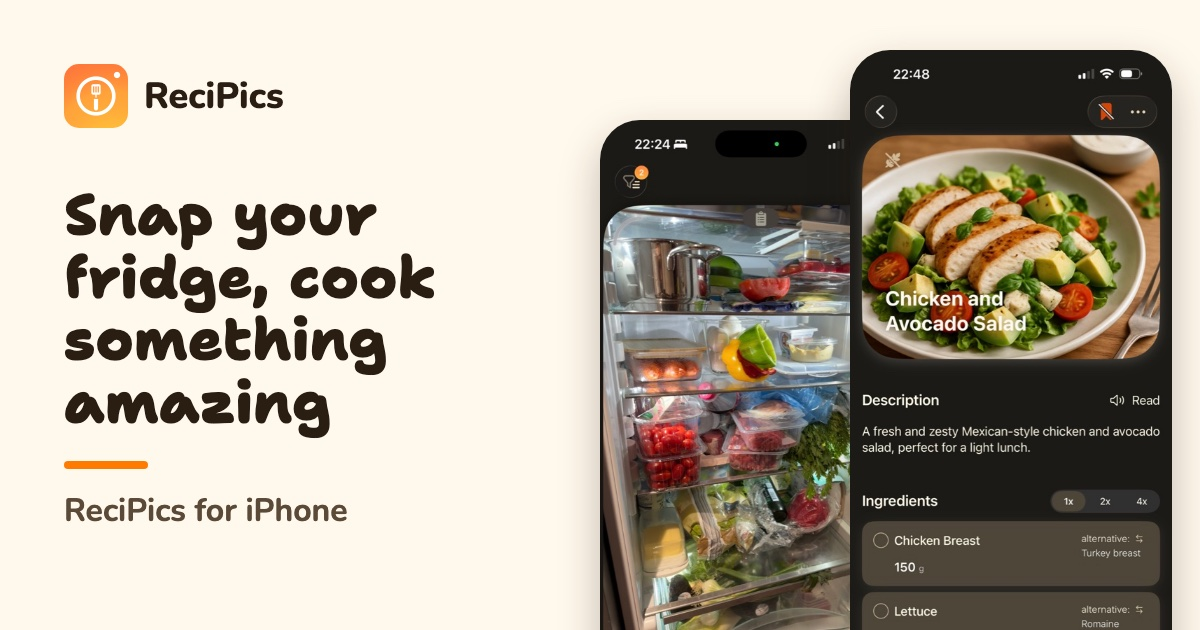
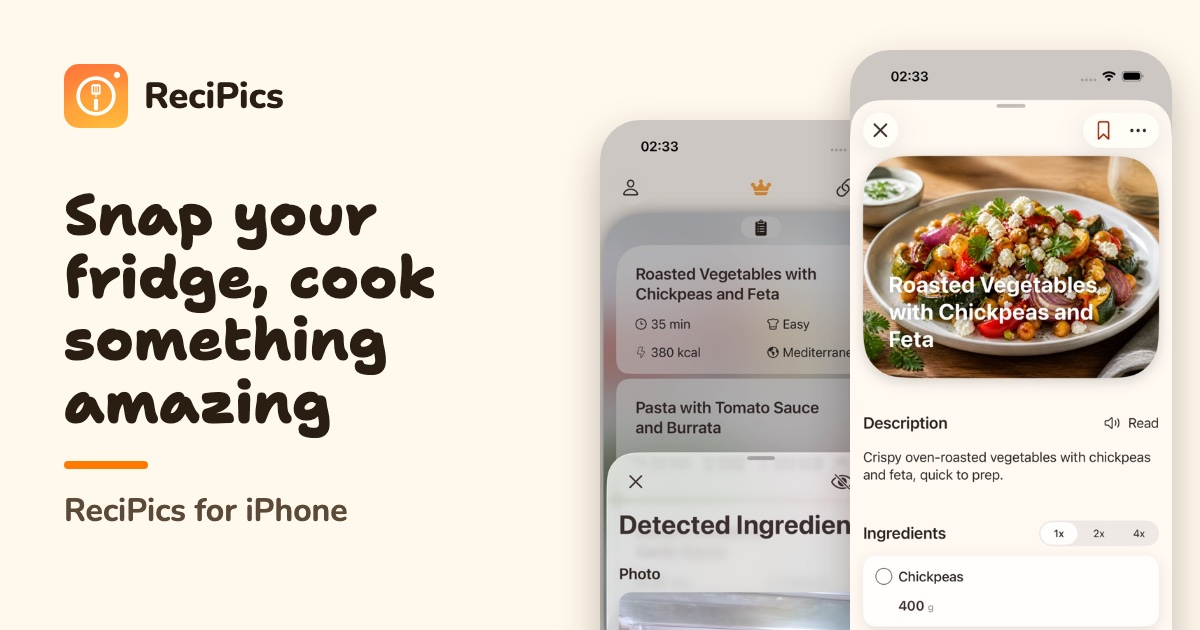
Replace undocumented fridge photo and demo screens with new app captures (EN/DE ingredients, DE planner, hero, og cards); show all 3 steps on mobile (row 1030) (#61)
Claude-Session: https://claude.ai/code/session_014MN2vDgghcvEeuRLMo1AfY

diff --git a/essensplaner-app.html b/essensplaner-app.html
@@ -63,7 +63,8 @@
   .card ol{margin:10px 0 10px 22px;color:#5b4a38;font-weight:600;}
   .card ol li{margin:8px 0;}
   .cta{display:inline-flex;align-items:center;gap:10px;margin-top:18px;background:linear-gradient(135deg,#FF9A2E,#FF7A00);color:#2A1E12 !important;padding:16px 30px;border-radius:16px;font-weight:800;font-size:18px;text-decoration:none;box-shadow:0 16px 32px -12px rgba(214,103,0,.8);}
-  @media (max-width:640px){.shots{grid-template-columns:1fr 1fr;}.shots figure:last-child{display:none;}.nav-links a:not(.nav-cta){display:none;}.nav-links .nav-cta{display:none;}.footer{justify-content:center;text-align:center;}}
+  @media (max-width:640px){.shots{grid-template-columns:repeat(3,1fr);gap:8px;}.shots figcaption{font-size:12px;}.nav-links a:not(.nav-cta){display:none;}.nav-links .nav-cta{display:none;}.footer{justify-content:center;text-align:center;}}
+.shots{counter-reset:s;}.shots figcaption::before{counter-increment:s;content:counter(s) ". ";}
 </style>
   <!-- jsonld-884 -->
   <script type="application/ld+json">{"@context": "https://schema.org", "@graph": [{"@type": "MobileApplication", "name": "ReciPics", "operatingSystem": "iOS", "applicationCategory": "LifestyleApplication", "inLanguage": "de", "description": "Gespeicherte Rezepte hast du genug, und trotzdem stellt sich jeden Abend die Frage, was es heute gibt. In ReciPics legst du Rezepte aus deinem Kochbuch auf einen Wochenplan, Mahlzeit für Mahlzeit, und setzt die Zutaten auf deine Einkaufsliste, wenn du einkaufen gehst.", "url": "https://recipics.app/essensplaner-app.html", "installUrl": "https://apps.apple.com/app/apple-store/id6740248018?pt=10114007&ct=web-mealplan-de&mt=8", "image": "https://recipics.app/resources/appIcon.png"}, {"@type": "BreadcrumbList", "itemListElement": [{"@type": "ListItem", "position": 1, "name": "ReciPics", "item": "https://recipics.app/"}, {"@type": "ListItem", "position": 2, "name": "Essensplaner mit deinen Rezepten", "item": "https://recipics.app/essensplaner-app.html"}]}]}</script>
@@ -85,11 +86,11 @@
     <a class="cta" href="https://apps.apple.com/app/apple-store/id6740248018?pt=10114007&amp;ct=web-mealplan-de&amp;mt=8">Im App Store ansehen</a>
     <p class="eff"><a href="meal-planner-app.html" hreflang="en">English</a></p>
     <div class="shots">
-      <figure><img src="resources/import-de-recipe.jpg" width="560" height="1218" alt="ReciPics: gespeichertes Rezept mit Zutaten, Portionswahl und Menü-Taste"><figcaption>1. Gespeichertes Rezept öffnen</figcaption></figure>
-      <figure><img src="resources/meal-planner.jpg" width="460" height="1000" alt="ReciPics-Essensplaner: eine Woche mit Zeilen für Frühstück, Mittag- und Abendessen und geplanten Rezepten" loading="lazy"><figcaption>2. Auf einen Tag legen</figcaption></figure>
-      <figure><img src="resources/grocery-list.jpg" width="460" height="1000" alt="ReciPics-Einkaufsliste mit Zutaten, Mengen und Abhak-Kreisen" loading="lazy"><figcaption>3. Mit der Liste einkaufen</figcaption></figure>
+      <figure><img src="resources/planner-de-1.jpg" width="460" height="1000" alt="ReciPics: gespeichertes Rezept Ofengemüse mit Kichererbsen und Feta mit Zutaten und Portionswahl"><figcaption>Gespeichertes Rezept öffnen</figcaption></figure>
+      <figure><img src="resources/planner-de-2.jpg" width="460" height="1000" alt="ReciPics-Essensplaner: eine Woche, das Rezept liegt auf Montag beim Abendessen" loading="lazy"><figcaption>Auf einen Tag legen</figcaption></figure>
+      <figure><img src="resources/planner-de-3.jpg" width="460" height="1000" alt="ReciPics-Einkaufsliste mit dem Abschnitt Essensplan, Zutaten, Mengen und Abhak-Kreisen" loading="lazy"><figcaption>Mit der Liste einkaufen</figcaption></figure>
     </div>
-    <p class="note">Echte Screens aus der App. Das Rezept zeigt die deutsche App-Version (Beispielrezept von unserer eigenen Seite recipics.app); Essensplaner und Einkaufsliste stammen aus der englischen App-Version, die App gibt es auch auf Deutsch.</p>
+    <p class="note">Screens aus der deutschen ReciPics-App mit Beispielinhalten (Testversion). Rezept, Rezeptfoto (KI-generiert), Wochenplan und Einkaufsliste dienen nur als Beispiel.</p>
     <div class="card">
       <h2>Der Wochenplan fürs Essen auf einen Blick</h2>
       <p>Im Tab „Essensplaner“ siehst du eine Woche als Raster: die Tage nebeneinander, die Mahlzeiten untereinander. Mit den Pfeilen wechselst du die Woche, und ein Tipp auf ein leeres Feld plant diese Mahlzeit.</p>

diff --git a/rezepte-aus-vorhandenen-zutaten.html b/rezepte-aus-vorhandenen-zutaten.html
@@ -63,7 +63,8 @@
   .card ol{margin:10px 0 10px 22px;color:#5b4a38;font-weight:600;}
   .card ol li{margin:8px 0;}
   .cta{display:inline-flex;align-items:center;gap:10px;margin-top:18px;background:linear-gradient(135deg,#FF9A2E,#FF7A00);color:#2A1E12 !important;padding:16px 30px;border-radius:16px;font-weight:800;font-size:18px;text-decoration:none;box-shadow:0 16px 32px -12px rgba(214,103,0,.8);}
-  @media (max-width:640px){.shots{grid-template-columns:1fr 1fr;}.shots figure:last-child{display:none;}.nav-links a:not(.nav-cta){display:none;}.nav-links .nav-cta{display:none;}.footer{justify-content:center;text-align:center;}}
+  @media (max-width:640px){.shots{grid-template-columns:repeat(3,1fr);gap:8px;}.shots figcaption{font-size:12px;}.nav-links a:not(.nav-cta){display:none;}.nav-links .nav-cta{display:none;}.footer{justify-content:center;text-align:center;}}
+.shots{counter-reset:s;}.shots figcaption::before{counter-increment:s;content:counter(s) ". ";}
 </style>
   <!-- jsonld-884 -->
   <script type="application/ld+json">{"@context": "https://schema.org", "@graph": [{"@type": "MobileApplication", "name": "ReciPics", "operatingSystem": "iOS", "applicationCategory": "LifestyleApplication", "inLanguage": "de", "description": "Der Kühlschrank ist voll, aber eine Idee fürs Abendessen fehlt. Fotografier mit ReciPics die Zutaten, die du da hast, und du bekommst Rezeptvorschläge, in denen mehrere davon vorkommen. Kein Foto zur Hand? Dann sag einfach, was da ist.", "url": "https://recipics.app/rezepte-aus-vorhandenen-zutaten.html", "installUrl": "https://apps.apple.com/app/apple-store/id6740248018?pt=10114007&ct=web-ingredients-de&mt=8", "image": "https://recipics.app/resources/appIcon.png"}, {"@type": "BreadcrumbList", "itemListElement": [{"@type": "ListItem", "position": 1, "name": "ReciPics", "item": "https://recipics.app/"}, {"@type": "ListItem", "position": 2, "name": "Rezepte aus vorhandenen Zutaten", "item": "https://recipics.app/rezepte-aus-vorhandenen-zutaten.html"}]}]}</script>
@@ -85,11 +86,11 @@
     <a class="cta" href="https://apps.apple.com/app/apple-store/id6740248018?pt=10114007&ct=web-ingredients-de&mt=8">Im App Store ansehen</a>
     <p class="eff"><a href="recipes-from-ingredients-you-have.html" hreflang="en">English</a></p>
     <div class="shots">
-      <figure><img src="resources/home-recipes.jpg" width="460" height="1000" alt="ReciPics: Kamera auf einen offenen Kühlschrank gerichtet"><figcaption>1. Kühlschrank fotografieren</figcaption></figure>
-      <figure><img src="resources/recipe-suggestions.jpg" width="460" height="1000" alt="ReciPics: Rezeptvorschläge mit Kochzeit, Schwierigkeit und geschätzten Kalorien" loading="lazy"><figcaption>2. Vorschlag wählen</figcaption></figure>
-      <figure><img src="resources/recipe-details.jpg" width="460" height="1000" alt="ReciPics: Rezept mit Zutaten, Mengen und Portionswahl 1x, 2x, 4x" loading="lazy"><figcaption>3. Loskochen</figcaption></figure>
+      <figure><img src="resources/ingredients-de-1.jpg" width="460" height="1000" alt="ReciPics: erkannte Zutaten neben einem KI-generierten Beispielfoto aus dem Kühlschrank"><figcaption>Kühlschrank fotografieren</figcaption></figure>
+      <figure><img src="resources/ingredients-de-2.jpg" width="460" height="1000" alt="ReciPics: Rezeptvorschläge mit Kochzeit, Schwierigkeit und geschätzten Kalorien" loading="lazy"><figcaption>Vorschlag wählen</figcaption></figure>
+      <figure><img src="resources/ingredients-de-3.jpg" width="460" height="1000" alt="ReciPics: Rezept Ofengemüse mit Kichererbsen und Feta mit Zutaten, Mengen und Portionswahl" loading="lazy"><figcaption>Loskochen</figcaption></figure>
     </div>
-    <p class="note">Echte Screens aus der englischen App-Version; die App gibt es auch auf Deutsch. Kalorien und Nährwerte sind Schätzungen.</p>
+    <p class="note">Screens aus der deutschen App mit Beispielinhalten (Testversion). Kühlschrankfoto und Rezeptfotos sind KI-generierte Beispiele; in der App entstehen die Vorschläge aus deinem eigenen Foto und können abweichen. Kalorien und Nährwerte sind Schätzungen.</p>
     <div class="card">
       <h2>Voller Kühlschrank, keine Idee</h2>
       <p>Eine halbe Paprika, ein paar Eier, eine Tüte Spinat, Reis von gestern. Für jede Zutat einzeln ein Rezept zu suchen, dauert länger als das Kochen selbst. ReciPics fängt bei dem an, was schon vor dir liegt, und schlägt vor, was du daraus machen kannst.</p>

diff --git a/recipes-from-ingredients-you-have.html b/recipes-from-ingredients-you-have.html
@@ -63,7 +63,8 @@
   .card ol{margin:10px 0 10px 22px;color:#5b4a38;font-weight:600;}
   .card ol li{margin:8px 0;}
   .cta{display:inline-flex;align-items:center;gap:10px;margin-top:18px;background:linear-gradient(135deg,#FF9A2E,#FF7A00);color:#2A1E12 !important;padding:16px 30px;border-radius:16px;font-weight:800;font-size:18px;text-decoration:none;box-shadow:0 16px 32px -12px rgba(214,103,0,.8);}
-  @media (max-width:640px){.shots{grid-template-columns:1fr 1fr;}.shots figure:last-child{display:none;}.nav-links a:not(.nav-cta){display:none;}.nav-links .nav-cta{display:none;}.footer{justify-content:center;text-align:center;}}
+  @media (max-width:640px){.shots{grid-template-columns:repeat(3,1fr);gap:8px;}.shots figcaption{font-size:12px;}.nav-links a:not(.nav-cta){display:none;}.nav-links .nav-cta{display:none;}.footer{justify-content:center;text-align:center;}}
+.shots{counter-reset:s;}.shots figcaption::before{counter-increment:s;content:counter(s) ". ";}
 </style>
   <!-- jsonld-884 -->
   <script type="application/ld+json">{"@context": "https://schema.org", "@graph": [{"@type": "MobileApplication", "name": "ReciPics", "operatingSystem": "iOS", "applicationCategory": "LifestyleApplication", "inLanguage": "en", "description": "The fridge is full, but nothing in it looks like dinner. Take a photo of the ingredients you have with ReciPics and get recipe ideas that use several of them. No photo at hand? Say what you have instead.", "url": "https://recipics.app/recipes-from-ingredients-you-have.html", "installUrl": "https://apps.apple.com/app/apple-store/id6740248018?pt=10114007&ct=web-ingredients-en&mt=8", "image": "https://recipics.app/resources/appIcon.png"}, {"@type": "BreadcrumbList", "itemListElement": [{"@type": "ListItem", "position": 1, "name": "ReciPics", "item": "https://recipics.app/"}, {"@type": "ListItem", "position": 2, "name": "Recipes from the ingredients you have", "item": "https://recipics.app/recipes-from-ingredients-you-have.html"}]}]}</script>
@@ -85,11 +86,11 @@
     <a class="cta" href="https://apps.apple.com/app/apple-store/id6740248018?pt=10114007&ct=web-ingredients-en&mt=8">View on the App Store</a>
     <p class="eff"><a href="rezepte-aus-vorhandenen-zutaten.html" hreflang="de">Deutsch</a></p>
     <div class="shots">
-      <figure><img src="resources/home-recipes.jpg" width="460" height="1000" alt="ReciPics: camera pointed at an open fridge"><figcaption>1. Snap your fridge</figcaption></figure>
-      <figure><img src="resources/recipe-suggestions.jpg" width="460" height="1000" alt="ReciPics: recipe suggestions with cooking time, difficulty and estimated calories" loading="lazy"><figcaption>2. Pick a suggestion</figcaption></figure>
-      <figure><img src="resources/recipe-details.jpg" width="460" height="1000" alt="ReciPics: recipe with ingredients, amounts and servings 1x, 2x, 4x" loading="lazy"><figcaption>3. Cook the recipe</figcaption></figure>
+      <figure><img src="resources/ingredients-en-1.jpg" width="460" height="1000" alt="ReciPics: detected ingredients next to an AI-generated example fridge photo"><figcaption>Snap your fridge</figcaption></figure>
+      <figure><img src="resources/ingredients-en-2.jpg" width="460" height="1000" alt="ReciPics: recipe suggestions with cooking time, difficulty and estimated calories" loading="lazy"><figcaption>Pick a suggestion</figcaption></figure>
+      <figure><img src="resources/ingredients-en-3.jpg" width="460" height="1000" alt="ReciPics: recipe Roasted Vegetables with Chickpeas and Feta with ingredients, amounts and servings" loading="lazy"><figcaption>Cook the recipe</figcaption></figure>
     </div>
-    <p class="note">Real screens from the app. Calories and nutrition are estimates.</p>
+    <p class="note">Screens from the app with example content (test version). The fridge photo and recipe photos are AI-generated examples; in the app, suggestions come from your own photo and may differ. Calories and nutrition are estimates.</p>
     <div class="card">
       <h2>A full fridge and no idea</h2>
       <p>Half a pepper, a few eggs, a bag of spinach, some leftover rice. Looking up a recipe for each of them takes longer than the cooking. ReciPics starts from what is already in front of you and suggests what you could make with it.</p>

diff --git a/index.html b/index.html
@@ -106,13 +106,13 @@
       <div data-tilt style="position:relative;z-index:3;transition:transform .25s ease;transform-style:preserve-3d;">
         <div style="position:relative;width:clamp(260px,30vw,300px);aspect-ratio:9/19.5;background:#15110c;border-radius:46px;padding:11px;box-shadow:0 40px 70px -20px rgba(214,103,0,.55),0 0 0 2px rgba(0,0,0,.06);animation:bob 8s ease-in-out infinite;">
           <div style="position:absolute;top:20px;left:50%;transform:translateX(-50%);width:96px;height:28px;background:#000;border-radius:20px;z-index:5;"></div>
-          <img alt="ReciPics recipe home screen" width="460" height="1000" src="resources/home-recipes.jpg" style="width:100%;height:100%;object-fit:cover;border-radius:36px;display:block;">
+          <img alt="ReciPics: detected ingredients next to an AI-generated example fridge photo" width="460" height="1000" src="resources/ingredients-en-1.jpg" style="width:100%;height:100%;object-fit:cover;border-radius:36px;display:block;">
         </div>
       </div>
 
       <div data-par="0.07" style="position:absolute;bottom:0;right:6px;z-index:5;"><div style="background:#fff;border-radius:18px;padding:13px 16px;box-shadow:0 18px 34px -14px rgba(80,50,10,.45);display:flex;align-items:center;gap:11px;transform:rotate(3deg);">
         <span style="width:38px;height:38px;border-radius:11px;background:linear-gradient(135deg,#FFB02E,#FF7A00);display:flex;align-items:center;justify-content:center;font-size:19px;">&#10024;</span>
-        <div style="line-height:1.15;"><div style="font-weight:800;font-size:14px;">Recipe found!</div><div style="font-size:12px;color:#6B5847;">Pasta Primavera · 20 min</div></div>
+        <div style="line-height:1.15;"><div style="font-weight:800;font-size:14px;">Recipe found!</div><div style="font-size:12px;color:#6B5847;">Roasted Vegetables · 35 min</div></div>
       </div></div>
     </div>
   </div>
